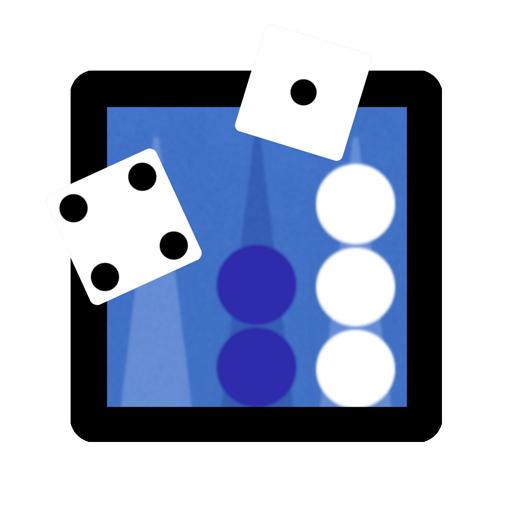
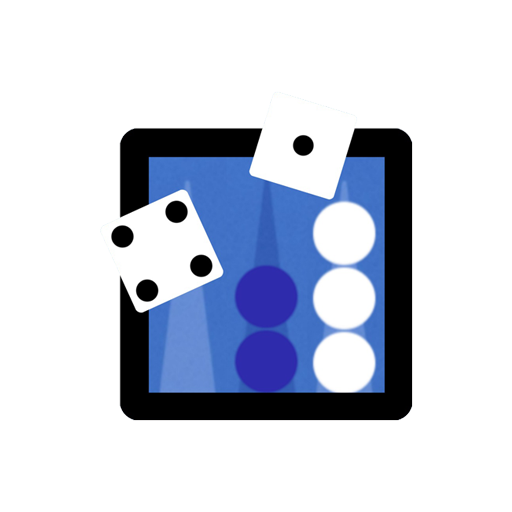
kjh

diff --git a/utils/computerAI.tsx b/utils/computerAI.tsx
@@ -1,40 +1,40 @@
 import { makeMove } from "./utils";
 
 const AI_LEVELS = {
-    '1': {  // ضعیفترین - فقط به فکر کم کردن پیپ
+    '1': {  // افسانهای
+        pipCount: 0.5,
+        blots: 16,
+        hits: 9,
+        closedPoints: 22,
+        risk: -45,
+    },
+    '2': {  // خبره
+        pipCount: 1,
+        blots: 10,
+        hits: 5,
+        closedPoints: 12,
+        risk: -25,
+    },
+    '3': {  // استاد
+        pipCount: 0.8,
+        blots: 13,
+        hits: 7,
+        closedPoints: 16,
+        risk: -32,
+    },
+    '4': {  // ضعیفترین - فقط به فکر کم کردن پیپ
         pipCount: 5,
         blots: 0.1,
         hits: 0.1,
         closedPoints: 0.1,
         risk: 0,
     },
-    '2': {  // کمی توجه به امنیت
+    '5': {  // کمی توجه به امنیت
         pipCount: 4,
         blots: 0.5,
         hits: 0.3,
         closedPoints: 0.5,
         risk: -0.5,
-    },
-    '3': {  // مبتدی
-        pipCount: 3,
-        blots: 1,
-        hits: 0.5,
-        closedPoints: 1,
-        risk: -2,
-    },
-    '4': {  // آماتور - توجه بیشتر به امنیت
-        pipCount: 2.5,
-        blots: 2,
-        hits: 1,
-        closedPoints: 2,
-        risk: -5,
-    },
-    '5': {  // متوسط
-        pipCount: 2,
-        blots: 3,
-        hits: 2,
-        closedPoints: 3,
-        risk: -8,
     },
     '6': {  // نیمهحرفهای
         pipCount: 1.5,
@@ -50,27 +50,27 @@ const AI_LEVELS = {
         closedPoints: 8,
         risk: -18,
     },
-    '8': {  // خبره
-        pipCount: 1,
-        blots: 10,
-        hits: 5,
-        closedPoints: 12,
-        risk: -25,
+    '8': {  // مبتدی
+        pipCount: 3,
+        blots: 1,
+        hits: 0.5,
+        closedPoints: 1,
+        risk: -2,
     },
-    '9': {  // استاد
-        pipCount: 0.8,
-        blots: 13,
-        hits: 7,
-        closedPoints: 16,
-        risk: -32,
+    '9': {  // آماتور - توجه بیشتر به امنیت
+        pipCount: 2.5,
+        blots: 2,
+        hits: 1,
+        closedPoints: 2,
+        risk: -5,
     },
-    '10': {  // افسانهای
-        pipCount: 0.5,
-        blots: 16,
-        hits: 9,
-        closedPoints: 22,
-        risk: -45,
-    }
+    '10': {  // متوسط
+        pipCount: 2,
+        blots: 3,
+        hits: 2,
+        closedPoints: 3,
+        risk: -8,
+    },
 }
 
 // =================== توابع کمکی ===================

diff --git a/app/(tabs)/index.tsx b/app/(tabs)/index.tsx
@@ -9,7 +9,7 @@ const games = [
   { id: 2, title: 'تخته نرد استاندارد', bgColor: '#7c3aed', textColor: '#7c3aed', mode: 'standard' },
   { id: 3, title: 'تفننی', bgColor: '#ea580c', textColor: '#ea580c', mode: 'fun' },
   //{ id: 4, title: 'دو نفره', bgColor: '#dc2626', textColor: '#dc2626', mode: 'twoPlayer' },
-  { id: 4, title: 'هوش مصنوعی', bgColor: '#dc2626', textColor: '#dc2626', mode: 'AIvsAI' },
+  // { id: 4, title: 'هوش مصنوعی', bgColor: '#dc2626', textColor: '#dc2626', mode: 'AIvsAI' },
 ];
 
 export default function HomeScreen() {
@@ -111,20 +111,20 @@ const styles = StyleSheet.create({
     shadowOpacity: 0.15,
     shadowRadius: 6,
     elevation: 6,
+    paddingHorizontal: '5%',
+    paddingVertical: '2%',
   },
   cardContent: {
     flex: 1,
     flexDirection: 'row',
     alignItems: 'center',
     justifyContent: 'space-between',
-    paddingHorizontal: '5%',
   },
   cardTextSection: {
     flex: 1,
-    alignItems: 'center',
+    alignItems: 'flex-start',
     justifyContent: 'space-between',
     height: '100%',
-    paddingVertical: '2%',
   },
   textCard: {
     color: '#ffffff',

diff --git a/components/home/profileCard.tsx b/components/home/profileCard.tsx
@@ -43,9 +43,9 @@ const styles = StyleSheet.create({
         width: '90%',
         flexDirection: 'row',     // horizontal layout
         justifyContent: 'flex-end', // push children to the right
-        marginTop: 1 * rem,       // 80px
+        marginTop: 3 * rem,       // 80px
         marginBottom: 1 * rem,       // 80px
-        padding: 1 * rem,         // 16px
+        padding: 0.5 * rem,         // 16px
     },
     textSection: {
         flex: 1,                  // takes remaining space
@@ -54,7 +54,7 @@ const styles = StyleSheet.create({
     },
     name: {
         fontFamily: 'Kaghaz',
-        fontSize: 1.6 * rem,      // ~26px
+        fontSize: 1.3 * rem,      // ~26px
     },
     amounts: {
         flexDirection: 'row',